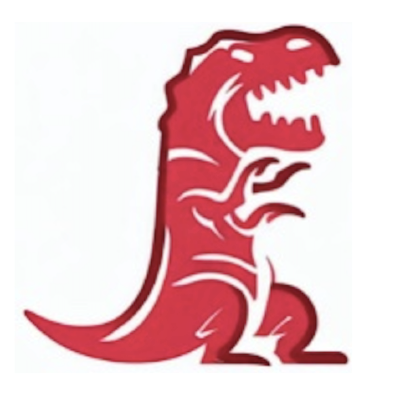
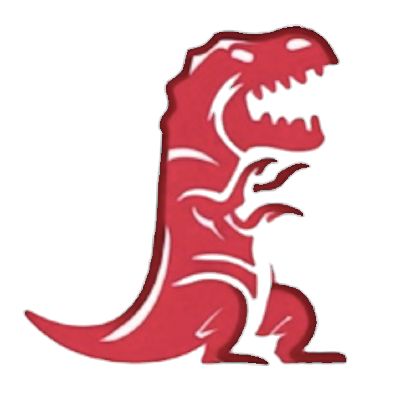
Cut the three animals out of their white, and name the files like the mark's
Each animal now comes in the same three files the mark comes in: a transparent
PNG to use, a copy on white for what cannot handle transparency, and the
artwork as it was drawn. What was sloth_brand.png is sloth_brand_white_back.png,
mirroring logo.png / logo_white_back.png, and the plain _brand name is the
transparent one — the file somebody reaching for a mascot should get.

Two things this could not be done by keying out white.

The white behind the sheep and the white of its wool are the same white. The
background is therefore flooded in from the border, 4-connected: white that no
path from the edge reaches is inside the animal and stays opaque — the wool,
the monitor, the keys. On a dark background that white is what shows, because
it is part of the drawing.

And these drawings have soft, desaturated edges. Alpha taken from brightness
keeps that grey ramp as dark half-transparent pixels, which is a visible halo
on anything but white; alpha is taken from chroma instead, so grey goes to
zero and only ink survives. Below 18% is compression noise and is cleared
outright — it was a few percent opaque across the whole former background,
invisible on white and a grey film on black. The partial pixels are
un-premultiplied, so compositing reproduces the original blend instead of
laying a lighter ring around the figure.

Checked against teal, black and white: no halo, no white square, interiors
intact.

Claude-Session: https://claude.ai/code/session_014LGL5hybkg2PnsNAg2WRY3

diff --git a/docs/resources/logo.md b/docs/resources/logo.md
@@ -97,14 +97,24 @@ Three animals travel with the project — on posts, slides and covers, where the
 mark alone is a logo and an animal is a picture. They are drawings, not marks:
 they stand next to the logo, never in place of it.
 
-Each comes in two files. The one to use is the `_brand` copy; the plain name is
-the artwork as it was drawn. Every animal arrived on a red of its own —
-`#C12E2B`, `#AB2319` and, under the JPEG noise, roughly `#F5021B` — three reds
-that are each almost, but not quite, the red of the mark. The `_brand` copies
-are shifted onto `#D03C4A`, so a mascot next to the logo is the same red as the
-logo. Only the red ink moved, in proportion to how much of it a pixel carries:
-outlines, shading, the sloth's cream fur and the white behind all three are
-untouched.
+Each animal comes in three files, the same way the mark does: a transparent
+PNG to use, a copy on white for the places that cannot handle transparency, and
+the artwork as it was drawn.
+
+Every animal arrived on a red of its own — `#C12E2B`, `#AB2319` and, under the
+JPEG noise, roughly `#F5021B` — three reds that are each almost, but not quite,
+the red of the mark. The brand copies are shifted onto `#D03C4A`, so a mascot
+next to the logo is the same red as the logo. Only the red ink moved, in
+proportion to how much of it a pixel carries: outlines, shading and the sloth's
+cream fur are untouched.
+
+The transparent copies are cut out along the drawing, not along its white. The
+white behind the sheep and the white of its wool are the same white, so the
+background was found by flooding in from the border — white that no path from
+the edge reaches is inside the animal and stays: the wool, the monitor, the
+keyboard. The soft grey edge these drawings carry is dropped rather than kept
+half-transparent, which is what would otherwise show as a grey halo on every
+background that is not white.
 
 ### Sloth
 
@@ -114,8 +124,9 @@ The sloth at the keyboard — unhurried, and the work still gets done.
 
 | | |
 | --- | --- |
-| File | [`sloth_brand.png`](/mascots/sloth_brand.png) — 400 × 400, PNG, white background |
-| As drawn | [`sloth.jpg`](/mascots/sloth.jpg) — JPEG, so it carries compression artefacts around the outline; the brand copy is a PNG and adds none of its own |
+| Use | [`sloth_brand.png`](/mascots/sloth_brand.png) — 400 × 400, PNG, transparent |
+| On white | [`sloth_brand_white_back.png`](/mascots/sloth_brand_white_back.png) |
+| As drawn | [`sloth.jpg`](/mascots/sloth.jpg) — a JPEG, so it carries compression artefacts along the outline; the copies above are PNGs and add none of their own |
 | Red | ≈ `#F5021B` → `#D03C4A` |
 
 ### Dinosaur
@@ -124,7 +135,8 @@ The sloth at the keyboard — unhurried, and the work still gets done.
 
 | | |
 | --- | --- |
-| File | [`dinosaur_brand.png`](/mascots/dinosaur_brand.png) — 400 × 400, PNG, white background |
+| Use | [`dinosaur_brand.png`](/mascots/dinosaur_brand.png) — 400 × 400, PNG, transparent |
+| On white | [`dinosaur_brand_white_back.png`](/mascots/dinosaur_brand_white_back.png) |
 | As drawn | [`dinosaur.png`](/mascots/dinosaur.png) |
 | Red | `#C12E2B` → `#D03C4A` |
 
@@ -134,14 +146,14 @@ The sloth at the keyboard — unhurried, and the work still gets done.
 
 | | |
 | --- | --- |
-| File | [`sheep_brand.png`](/mascots/sheep_brand.png) — 400 × 400, PNG, white background |
+| Use | [`sheep_brand.png`](/mascots/sheep_brand.png) — 400 × 400, PNG, transparent |
+| On white | [`sheep_brand_white_back.png`](/mascots/sheep_brand_white_back.png) |
 | As drawn | [`sheep.png`](/mascots/sheep.png) |
 | Red | `#AB2319` → `#D03C4A` |
 
-All three sit on an opaque white background, so they belong on a white surface.
-On any other colour a white square appears around them — there is no
-transparent version, and cutting one out of these files by hand leaves a white
-fringe along every edge.
+What is white inside an animal stays white — the wool, the screen, the keys.
+On a dark background that white is what you see, because it is part of the
+drawing and not the surface behind it.
 
 ## Colours
 
